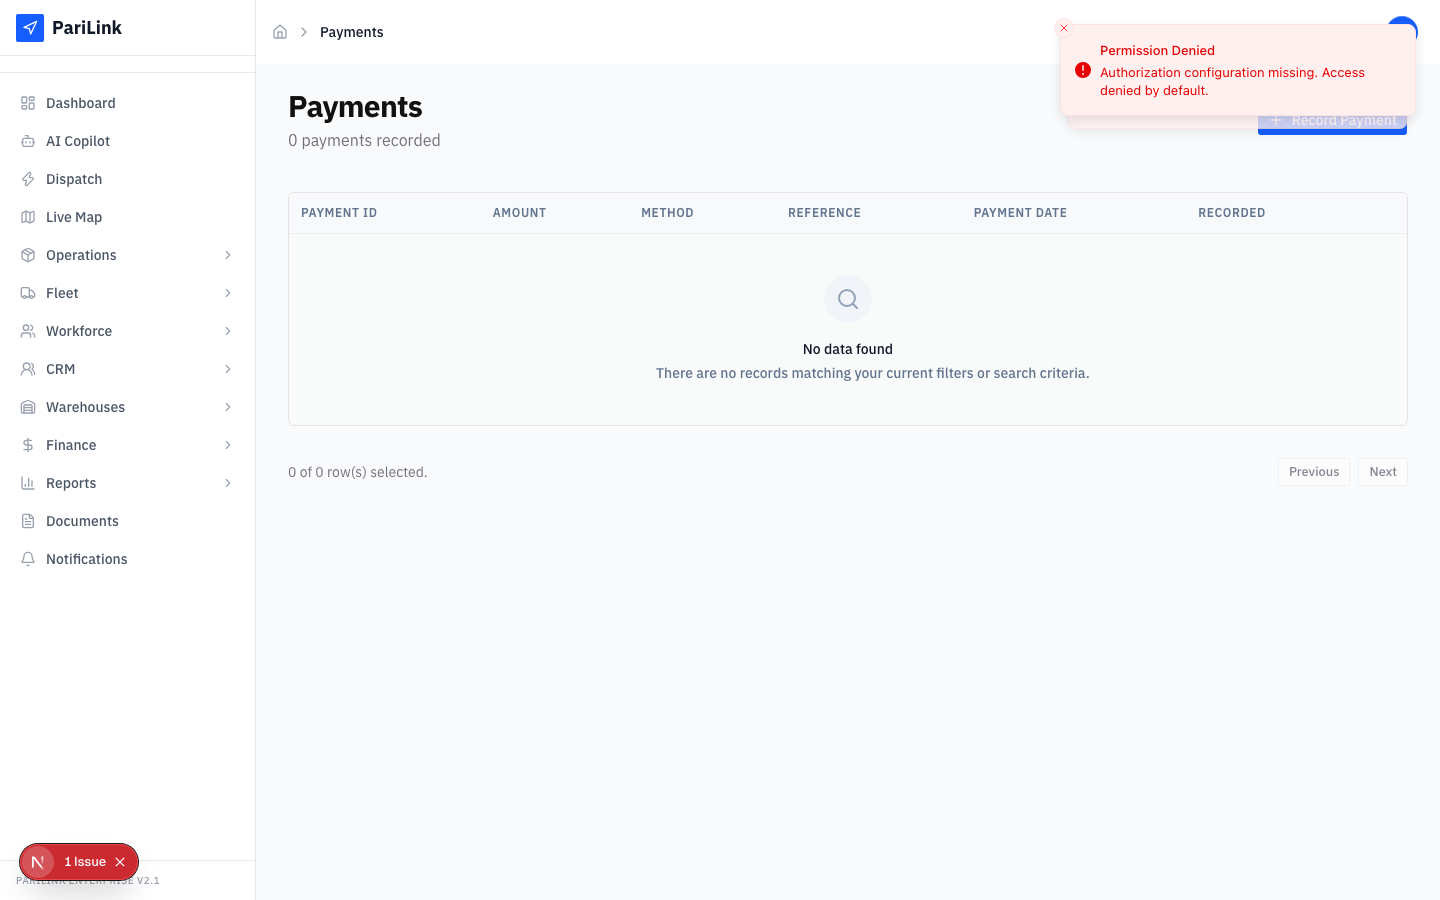
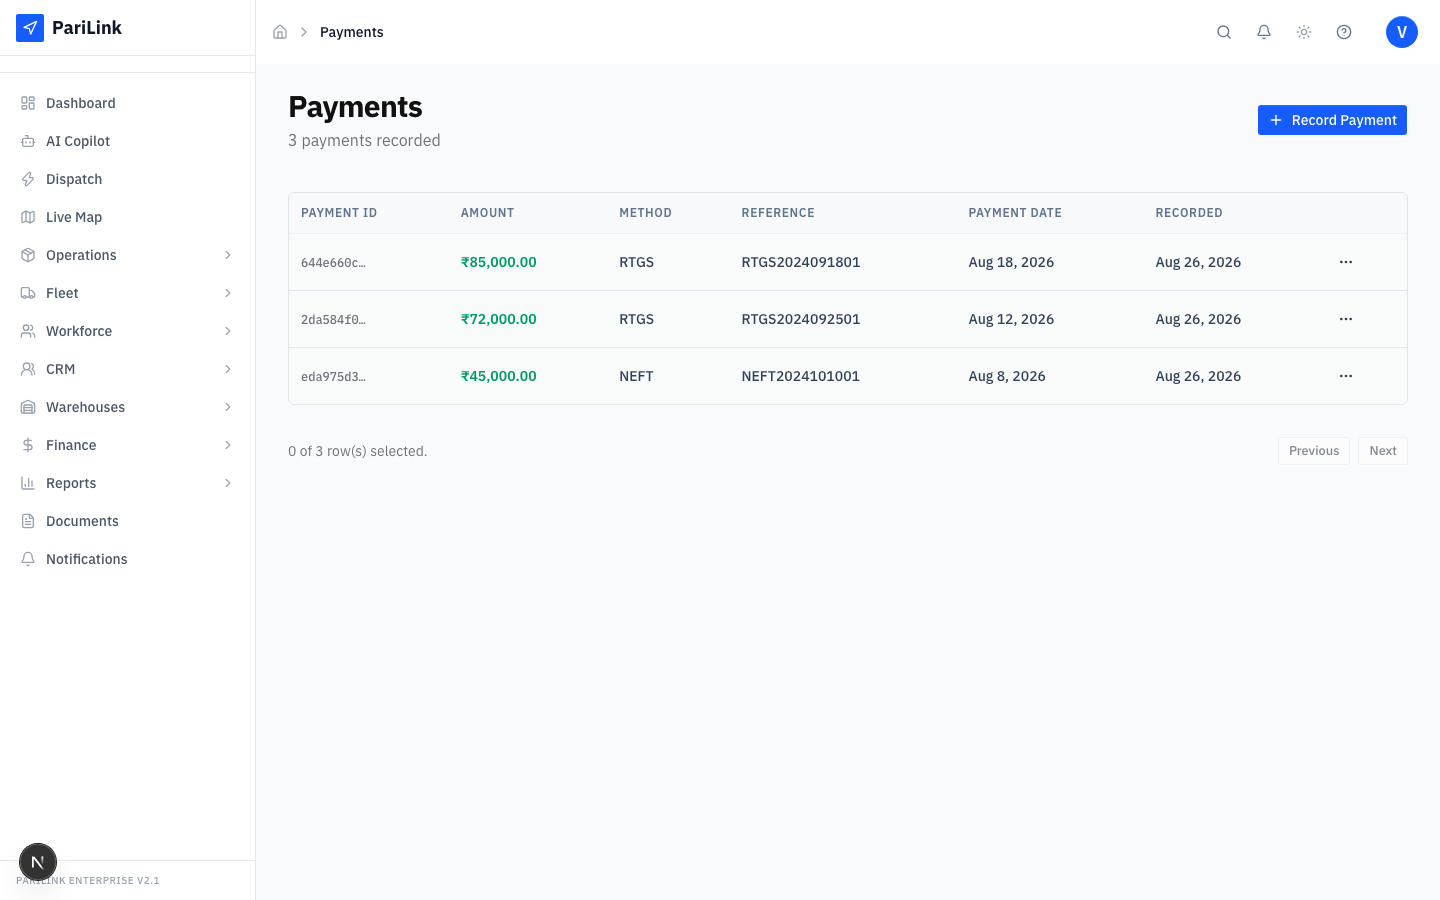
demo: fixed fail-closed PermissionsGuard across endpoints, payments proven

diff --git a/apps/api/src/fastag/controllers/fastag-wallet/fastag-wallet.controller.ts b/apps/api/src/fastag/controllers/fastag-wallet/fastag-wallet.controller.ts
@@ -11,6 +11,7 @@ import {
   Query,
 } from '@nestjs/common';
 import { JwtAuthGuard } from '../../../auth/guards/jwt-auth.guard';
+import { RequirePermissions } from '../../../auth/decorators/permissions.decorator';
 import { FastagWalletService } from '../../services/fastag-wallet/fastag-wallet.service';
 import {
   CreateTollAccountDto,
@@ -24,21 +25,25 @@ export class FastagWalletController {
   constructor(private readonly service: FastagWalletService) {}
 
   @Post()
+  @RequirePermissions('finance:write')
   create(@Req() req: any, @Body() data: CreateTollAccountDto) {
     return this.service.create(req.user.companyId, req.user.id, data);
   }
 
   @Get()
+  @RequirePermissions('finance:read')
   findAll(@Req() req: any, @Query() query: QueryTollAccountDto) {
     return this.service.findAll(req.user.companyId, query);
   }
 
   @Get(':id')
+  @RequirePermissions('finance:read')
   findOne(@Req() req: any, @Param('id') id: string) {
     return this.service.findOne(req.user.companyId, id);
   }
 
   @Patch(':id')
+  @RequirePermissions('finance:write')
   update(
     @Req() req: any,
     @Param('id') id: string,
@@ -48,6 +53,7 @@ export class FastagWalletController {
   }
 
   @Delete(':id')
+  @RequirePermissions('finance:write')
   remove(@Req() req: any, @Param('id') id: string) {
     return this.service.remove(req.user.companyId, id, req.user.id);
   }

diff --git a/apps/api/src/gst/controllers/gst-rule/gst-rule.controller.ts b/apps/api/src/gst/controllers/gst-rule/gst-rule.controller.ts
@@ -12,6 +12,7 @@ import {
   Query,
 } from '@nestjs/common';
 import { JwtAuthGuard } from '../../../auth/guards/jwt-auth.guard';
+import { RequirePermissions } from '../../../auth/decorators/permissions.decorator';
 import { GstEngineService } from '../../services/gst-engine/gst-engine.service';
 
 @Controller('gst/rules')
@@ -20,21 +21,25 @@ export class GstRuleController {
   constructor(private readonly service: GstEngineService) {}
 
   @Post()
+  @RequirePermissions('finance:write')
   create(@Req() req: any, @Body() data: CreateGstRuleDto) {
     return this.service.create(req.user.companyId, req.user.id, data);
   }
 
   @Get()
+  @RequirePermissions('finance:read')
   findAll(@Req() req: any, @Query() query: any) {
     return this.service.findAll(req.user.companyId, query);
   }
 
   @Get(':id')
+  @RequirePermissions('finance:read')
   findOne(@Req() req: any, @Param('id') id: string) {
     return this.service.findOne(req.user.companyId, id);
   }
 
   @Patch(':id')
+  @RequirePermissions('finance:write')
   update(
     @Req() req: any,
     @Param('id') id: string,
@@ -44,6 +49,7 @@ export class GstRuleController {
   }
 
   @Delete(':id')
+  @RequirePermissions('finance:write')
   remove(@Req() req: any, @Param('id') id: string) {
     return this.service.remove(req.user.companyId, id, req.user.id);
   }

diff --git a/apps/api/src/fleet/maintenance/fleet-maintenance.controller.ts b/apps/api/src/fleet/maintenance/fleet-maintenance.controller.ts
@@ -8,6 +8,7 @@ import {
 } from '@nestjs/common';
 import { ApiTags, ApiBearerAuth, ApiOperation } from '@nestjs/swagger';
 import { JwtAuthGuard } from '../../auth/guards/jwt-auth.guard';
+import { RequirePermissions } from '../../auth/decorators/permissions.decorator';
 import { GetUser } from '../../auth/decorators/get-user.decorator';
 import type { AuthenticatedUser } from '../../auth/decorators/get-user.decorator';
 import { FleetMaintenanceService } from './fleet-maintenance.service';
@@ -22,12 +23,14 @@ export class FleetMaintenanceController {
   ) {}
 
   @Get('upcoming')
+  @RequirePermissions('fleet:read')
   @ApiOperation({ summary: 'Get upcoming scheduled maintenance for the fleet' })
   getUpcomingMaintenance(@GetUser() user: AuthenticatedUser) {
     return this.fleetMaintenanceService.getUpcomingMaintenance(user.companyId);
   }
 
   @Post('breakdown')
+  @RequirePermissions('fleet:write')
   @ApiOperation({ summary: 'Report a sudden vehicle breakdown' })
   reportBreakdown(
     @GetUser() user: AuthenticatedUser,

diff --git a/apps/api/src/finance/fastag/fastag.controller.ts b/apps/api/src/finance/fastag/fastag.controller.ts
@@ -8,6 +8,7 @@ import {
 } from '@nestjs/common';
 import { ApiTags, ApiBearerAuth, ApiOperation } from '@nestjs/swagger';
 import { JwtAuthGuard } from '../../auth/guards/jwt-auth.guard';
+import { RequirePermissions } from '../../auth/decorators/permissions.decorator';
 import { GetUser } from '../../auth/decorators/get-user.decorator';
 import type { AuthenticatedUser } from '../../auth/decorators/get-user.decorator';
 import { FastagService } from './fastag.service';
@@ -20,12 +21,14 @@ export class FastagController {
   constructor(private readonly fastagService: FastagService) {}
 
   @Get()
+  @RequirePermissions('finance:read')
   @ApiOperation({ summary: 'Get recent FASTag toll transactions' })
   getTransactions(@GetUser() user: AuthenticatedUser) {
     return this.fastagService.getTransactions(user.companyId);
   }
 
   @Post('sync')
+  @RequirePermissions('finance:write')
   @ApiOperation({ summary: 'Sync transactions from FASTag provider' })
   syncTollTransactions(
     @GetUser() user: AuthenticatedUser,

diff --git a/apps/api/src/payments/payments.controller.ts b/apps/api/src/payments/payments.controller.ts
@@ -25,6 +25,7 @@ export class PaymentsController {
   constructor(private readonly paymentsService: PaymentsService) {}
 
   @Get()
+  @RequirePermissions('finance:read')
   @ApiOperation({ summary: 'Get all payments' })
   getAllPayments(
     @GetUser() user: AuthenticatedUser,
@@ -39,6 +40,7 @@ export class PaymentsController {
   }
 
   @Get('invoices/:invoiceId')
+  @RequirePermissions('finance:read')
   @ApiOperation({ summary: 'Get payments for an invoice' })
   getInvoicePayments(
     @GetUser() user: AuthenticatedUser,
@@ -48,6 +50,7 @@ export class PaymentsController {
   }
 
   @Post()
+  @RequirePermissions('finance:write')
   @ApiOperation({ summary: 'Record a new payment' })
   recordPayment(
     @GetUser() user: AuthenticatedUser,

diff --git a/apps/api/src/documents/controllers/storage.controller.ts b/apps/api/src/documents/controllers/storage.controller.ts
@@ -9,6 +9,7 @@ import {
 } from '@nestjs/common';
 import { ApiTags, ApiBearerAuth, ApiOperation } from '@nestjs/swagger';
 import { JwtAuthGuard } from '../../auth/guards/jwt-auth.guard';
+import { RequirePermissions } from '../../auth/decorators/permissions.decorator';
 import { GetUser } from '../../auth/decorators/get-user.decorator';
 import type { AuthenticatedUser } from '../../auth/decorators/get-user.decorator';
 import type { Response } from 'express';
@@ -21,6 +22,7 @@ import * as fs from 'fs';
 @Controller('storage')
 export class StorageController {
   @Get(':tenantId/:filename')
+  @RequirePermissions('documents:read')
   @ApiOperation({ summary: 'Securely download a file' })
   downloadFile(
     @GetUser() user: AuthenticatedUser,

diff --git a/apps/api/src/support/support.controller.ts b/apps/api/src/support/support.controller.ts
@@ -1,6 +1,7 @@
 import { Controller, Post, Body, Logger, UseGuards } from '@nestjs/common';
 import { ApiTags } from '@nestjs/swagger';
 import { JwtAuthGuard } from '../auth/guards/jwt-auth.guard';
+import { RequirePermissions } from '../auth/decorators/permissions.decorator';
 
 @ApiTags('Support')
 @Controller('support')
@@ -9,6 +10,7 @@ export class SupportController {
   private readonly logger = new Logger(SupportController.name);
 
   @Post('ticket')
+  @RequirePermissions('support:write')
   async createTicket(
     @Body() payload: { subject: string; description: string; priority: string },
   ) {

diff --git a/PROVE-AND-FINISH-loop.md b/PROVE-AND-FINISH-loop.md
@@ -1,0 +1,68 @@
+# PariLink — PROVE profitability visually + finish. Screenshots MUST be fresh.
+
+You reported "screenshots attached, ready" — but `profitability.png` did NOT regenerate. It is
+byte-identical (same size, same mtime) to the BROKEN ₹0.00 version from the last round. Your web
+server kept failing under Playwright and the capture silently did nothing. So the profitability
+fix is UNPROVEN — the only screenshot of it still shows ₹0.00 and an error toast.
+
+Root problem to fix first: **screenshot capture silently fails and you don't notice.** This loop
+makes a stale screenshot impossible to hide.
+
+## STEP 0 — bring BOTH servers up RELIABLY, and block until they're truly ready
+```bash
+cd ~/Desktop/PariLink
+killall node 2>/dev/null; sleep 2
+(cd apps/api && npm run start:prod > /tmp/api.log 2>&1 &)
+(cd apps/web && npm run dev  > /tmp/web.log 2>&1 &)
+# WAIT for real readiness — do not proceed on a guess:
+for i in $(seq 1 40); do curl -s -o /dev/null -w "%{http_code}" localhost:8080/api/v1/health | grep -q 200 && break; sleep 3; done
+for i in $(seq 1 40); do curl -s -o /dev/null -w "%{http_code}" localhost:3000/login       | grep -q 200 && break; sleep 3; done
+curl -s -o /dev/null -w "api: %{http_code}\n" localhost:8080/api/v1/health
+curl -s -o /dev/null -w "web: %{http_code}\n" localhost:3000/login
+```
+Both MUST print 200 before you screenshot anything. If web isn't 200, read /tmp/web.log and fix
+the boot — do NOT run the capture against a dead server (that's what produced the stale file).
+
+## STEP 1 — regenerate ALL screenshots AND PROVE they're fresh (this is the anti-stale gate)
+Record the time, run the capture, then assert every screenshot's mtime is NEWER than that time:
+```bash
+STAMP=$(date +%s)
+cd apps/web && npx playwright test tests/screenshot-demo.spec.ts --project=chromium
+echo "--- freshness check (any 'STALE' = capture failed, do not proceed) ---"
+for f in demo-shots/*.png; do
+  m=$(stat -f %m "$f"); [ "$m" -ge "$STAMP" ] && echo "FRESH  $f" || echo "STALE  $f";
+done
+```
+If ANY file is STALE, the capture didn't work — fix the server/capture and rerun until every
+file says FRESH. A stale screenshot is a failed step.
+
+## STEP 2 — the profitability gate (the one that's been broken 3x)
+Open `demo-shots/profitability.png` and confirm it shows: non-zero **₹ Total Revenue, Total Cost,
+Net Profit**, a populated Trip Profitability table, and **Best lane (Ahmedabad→Surat green) +
+Worst lane (Pune→Nagpur red, −102.9%)**. Also paste the live curl proving the API returns those
+numbers:
+```bash
+c=$(curl -s -c /tmp/ck.txt localhost:8080/api/v1/health >/dev/null; grep XSRF /tmp/ck.txt|awk '{print $7}')
+TOK=$(curl -s -X POST localhost:8080/api/v1/auth/login -H "X-XSRF-TOKEN: $c" -b /tmp/ck.txt -H 'Content-Type: application/json' -d '{"email":"admin@parilink.in","password":"password123"}' | jq -r .access_token)
+curl -s "localhost:8080/api/v1/profitability/summary" -H "Authorization: Bearer $TOK" | jq .
+```
+If the curl shows real numbers but the SCREENSHOT still shows ₹0.00, the frontend isn't consuming
+the API (wrong path/param/shape) — fix the frontend until the screenshot shows the real numbers.
+Screenshot is the gate, not the curl.
+
+## STEP 3 — per-screen sanity (open each, fix if wrong, re-shoot until FRESH + correct)
+dashboard, customers, fleet, drivers, loads, trips, lorry-receipts, dispatch, invoices, payments,
+ledger, profitability, documents, maintenance, warehouse, notifications, tracking. Each screenshot
+must be FRESH and show real ₹/data — no ₹0.00, no "Invalid Date", no empty-where-seeded, no toast.
+
+## STEP 4 — endurance + commit
+Run the crash sweep 5× on Chromium (green each). Commit everything:
+`git add -A && git commit -m "demo: verified-fresh screenshots, profitability proven"`.
+
+## Report
+Paste: the api/web 200 lines, the FRESH/STALE list (all FRESH), the profitability curl JSON, and
+say "profitability.png shows ₹<real revenue> and the Pune→Nagpur red loss lane." Do NOT say ready
+until every screenshot is FRESH. Claude will pull the screenshots, check their mtimes are new, and
+open profitability.png — a stale or ₹0.00 file means not done.
+
+## Parked for after the demo: durable RLS on fresh `docker compose down -v`; owner revokes 5 keys.

diff --git a/FIX-payments-permissions.md b/FIX-payments-permissions.md
@@ -1,0 +1,47 @@
+# PariLink — fix the "Permission Denied" endpoints (payments + siblings). Short + verified.
+
+Profitability is genuinely fixed now (verified: ₹3,87,000, Pune→Nagpur red loss lane). But
+**/payments shows a red toast "Permission Denied — Authorization configuration missing. Access
+denied by default"** and an empty table — even though payments were seeded. This is the
+fail-closed PermissionsGuard: the payments controller's `@RequirePermissions(...)` is missing or
+wrong, so it denies by default. A "Permission Denied" page renders without crashing, so your
+crash sweep passes it — that's why it slipped. Judge by screenshot, not the sweep.
+
+## STEP 1 — find EVERY endpoint that fails closed like this
+```bash
+cd ~/Desktop/PariLink/apps/api
+# controllers that have routes but NO @RequirePermissions (these deny-by-default):
+for c in $(grep -rl "@Controller" src --include=*.controller.ts); do
+  if grep -q "@Get\|@Post\|@Patch\|@Delete" "$c" && ! grep -q "RequirePermissions\|@Public" "$c"; then echo "MISSING PERMS: $c"; fi
+done
+```
+Focus on the demo-path ones: **payments**, and check documents, maintenance, fuel, fastag, gst,
+tracking, support the same way.
+
+## STEP 2 — fix each with the CORRECT permission (do not remove the guard, don't fail open)
+Add the right `@RequirePermissions(...)` to each route so a normal role reaches it and the admin
+(`['*']`) is granted. Payments = `finance:read` (GET) / `finance:write` (POST), mirroring how
+invoices (which works) is decorated. Match each controller to the permission its sibling working
+controller uses. Do NOT make it `@Public` and do NOT delete the guard — that's a security hole.
+
+## STEP 3 — verify LIVE + by FRESH screenshot (both)
+Bring servers up (api + web both 200), then for payments and any others you fixed:
+```bash
+c=$(curl -s -c /tmp/ck.txt localhost:8080/api/v1/health >/dev/null; grep XSRF /tmp/ck.txt|awk '{print $7}')
+TOK=$(curl -s -X POST localhost:8080/api/v1/auth/login -H "X-XSRF-TOKEN: $c" -b /tmp/ck.txt -H 'Content-Type: application/json' -d '{"email":"admin@parilink.in","password":"password123"}' | jq -r .access_token)
+curl -s -w "\nHTTP %{http_code}\n" "localhost:8080/api/v1/payments" -H "Authorization: Bearer $TOK" | head -c 300
+```
+Must be 200 with real payment rows. Then regenerate screenshots with the freshness gate (every
+file mtime newer than the run start = FRESH), and OPEN payments.png: it must show real payment
+rows in ₹ and NO "Permission Denied" toast.
+
+## STEP 4 — one full pass: open EVERY demo screenshot, confirm none has a red toast / ₹0.00 / empty
+dashboard, customers, fleet, drivers, loads, trips, lorry-receipts, dispatch, invoices, payments,
+ledger, profitability, documents, maintenance, warehouse, notifications, tracking. Any red
+error toast or empty-where-seeded = fix it and re-shoot. Commit.
+
+## Report
+Paste: the MISSING PERMS list, the payments curl = 200 with rows, the FRESH list, and confirm
+"payments.png shows real rows, no toast." Claude will re-open payments.png and the others.
+
+## Parked for after demo: durable RLS on fresh `docker compose down -v`; owner revokes 5 keys.
